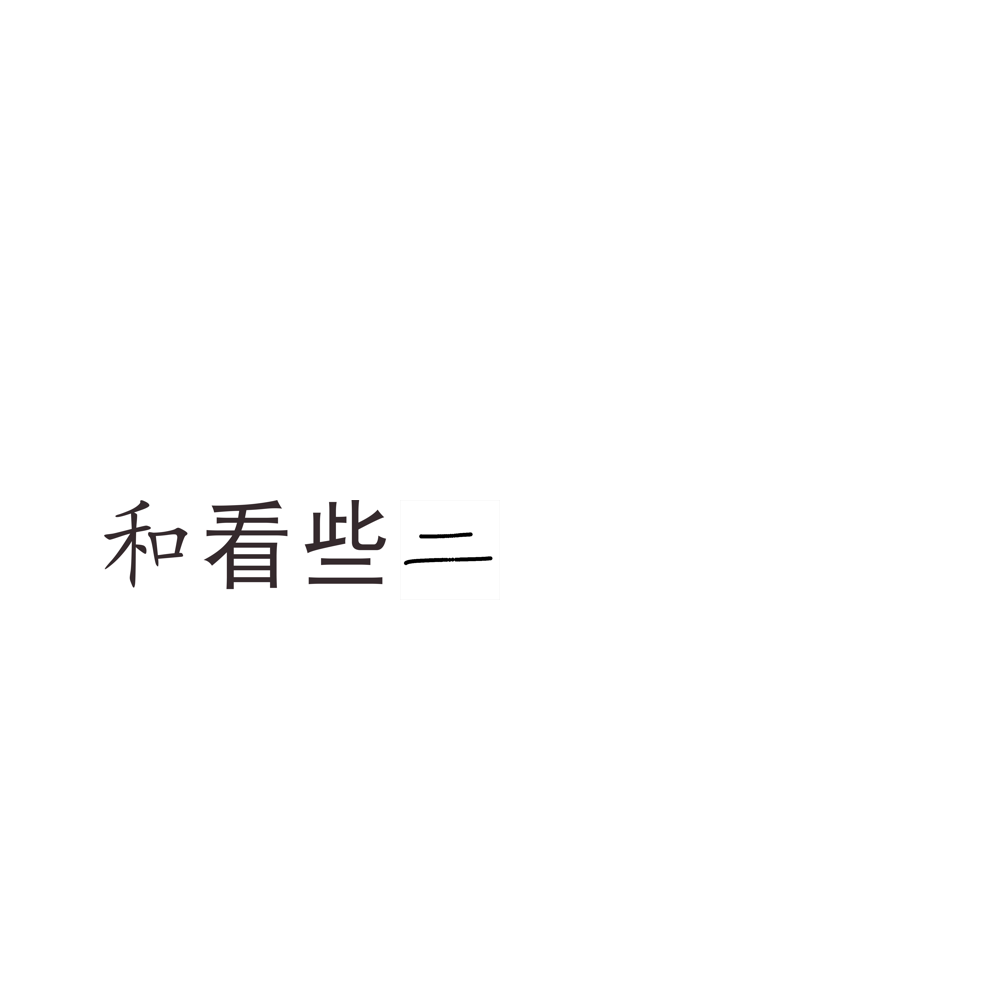
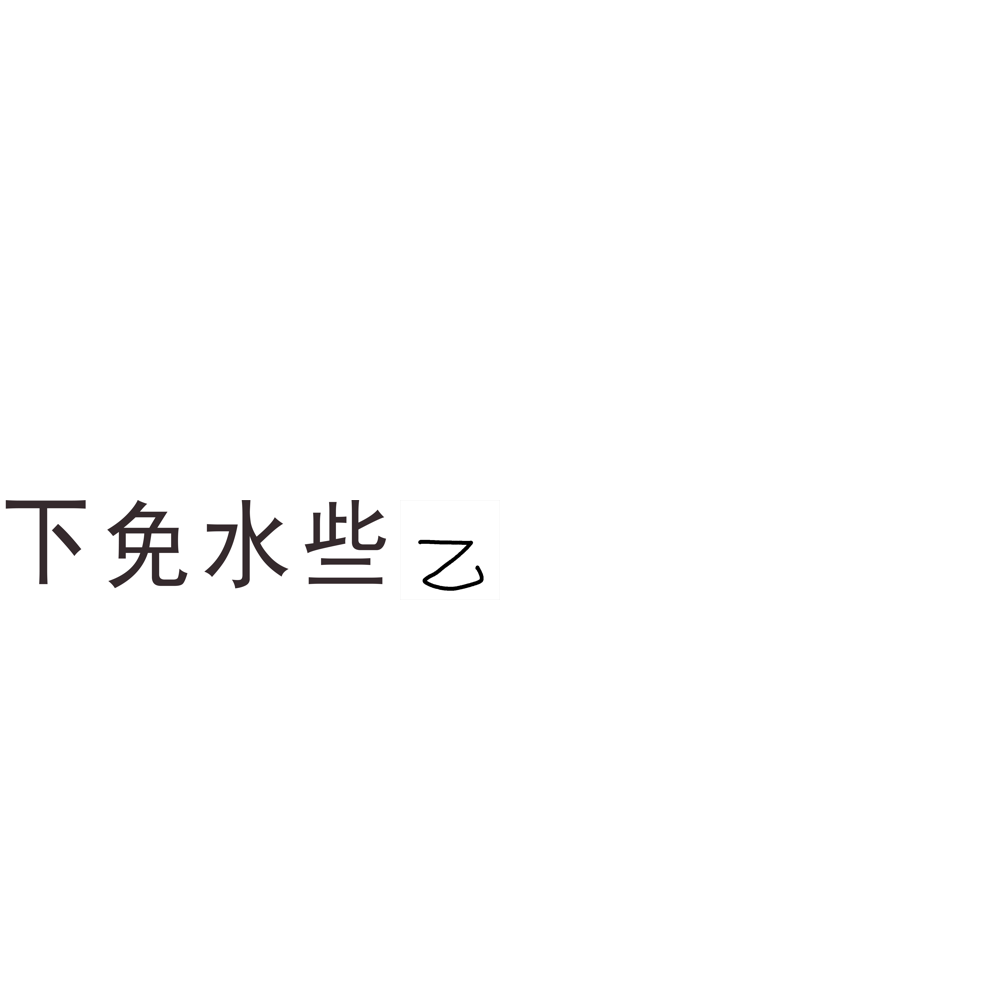
Fixed ImageRecognition.py

Changed region(s): [[0.0, 0.496, 0.279, 0.589], [0.403, 0.527, 0.496, 0.589]]

diff --git a/model/imagerecognition.py b/model/imagerecognition.py
@@ -1,45 +1,54 @@
 import pytesseract
 from PIL import Image
-from PIL import ImageGrab
 import os
+
+
 class ImageRecognition:
     def __init__(self):
         self.path= r"C:\Program Files\Tesseract-OCR\tesseract.exe"
         pytesseract.pytesseract.tesseract_cmd = r"C:\Program Files\Tesseract-OCR\tesseract.exe"
-    @staticmethod
-    def checkIfMatch(label1, label2):
-        if (label1["text"] == label2["text"]):
-            return True
-        return False
+        self.checklist = ["下","免","水","些","的"]
+
+
+
     def checkIfCapturedSignIsCorrect(self,state,sign):
         if (state.listOfTrainingCharacters[state.currentTrainingIndex]== sign):
             return True
         return False
 
-    def paste(self):
+    def paste(self,sign):
         d = os.getcwd()
         d = d + '/model/hanzirecognition/'
-        img1 = Image.open(d + 'first.png')
-        img1 = img1.resize((100, 100))
-        img2 = Image.open(d + 'second.png')
-        img2 = img2.resize((100, 100))
-        img3 = Image.open(d + 'third.png')
-        img3 = img3.resize((100, 100))
-        img = Image.open(d + 'image.png', 'r')
-        img = img.resize((100, 100))
         background = Image.new('RGBA', (1000, 1000), (255, 255, 255, 255))
-        background.paste(img1, (100, 500))
-        background.paste(img2, (200, 500))
-        background.paste(img3, (300, 500))
-        background.paste(img, (400, 500))
+        if sign in self.checklist:
+            index = self.checklist.index(sign)
+            for i in range(5):
+                if i == index:
+                    img = Image.open(d + 'image.png', 'r')
+                else :
+                    img = Image.open(d + str(i) + ".png")
+                img = img.resize((100, 100))
+                background.paste(img, (i * 100, 500))
+        else :
+            for i in range(5):
+                img = Image.open(d + str(i) + ".png")
+                img = img.resize((100, 100))
+                background.paste(img, (i*100, 500))
+            img = Image.open(d + 'image.png', 'r')
+            img = img.resize((100, 100))
+            background.paste(img, (i * 100, 500))
         background.save(d + 'out.png')
-    def calculate(self):
+    def calculate(self,sign):
         d = os.getcwd()
         d = d + '/model/hanzirecognition/'
         img = Image.open(d + 'out.png')
         text = pytesseract.image_to_string(img, lang='chi_sim')
-        return text[len(text) - 2]
+        for i in self.checklist:
+            if i != sign:
+                text = text.replace(i, "")
+        text=text.strip().replace(" ","")
+        return text
 
-    def recognize(self):
-        self.paste()
-        return self.calculate()
+    def recognize(self,sign):
+        self.paste(sign)
+        return self.calculate(sign)

diff --git a/model/hanzicharacter.py b/model/hanzicharacter.py
@@ -1,5 +1,7 @@
 from bs4 import BeautifulSoup
 import requests
+
+
 class Character:
     def __init__(self, hanzi):
         self.hanzi=hanzi
@@ -26,7 +28,8 @@ class Character:
         print("Number of strokes "+str(self.strokesNumber))
         print("Index number " +  str(self.indexNumber))
 
-class WebScrapper():
+
+class WebScrapper:
     def __init__(self,hanzi):
         self.hanzi=hanzi
         self.url = "http://hanzidb.org/character/" + requests.utils.quote(hanzi)
@@ -43,6 +46,7 @@ class WebScrapper():
             values.append(lines)
         myDict = dict(zip(keys,values))
         return myDict
+
     def getHanziData(self):
         abo = self.soup.find_all("div", class_="abo")
         pageText = ""
@@ -57,11 +61,13 @@ class WebScrapper():
         myDict = dict(zip(keys,values))
         return myDict
 
-class PageScrapper():
+
+class PageScrapper:
     def __init__(self,hsk):
         self.url = "http://hanzidb.org/character-list/hsk/level-" + str(hsk)
         self.page = requests.get(self.url)
         self.soup = BeautifulSoup(self.page.content, "html.parser")
+
     def getHanziList(self):
         href = self.soup.find_all("a",href=True)
         pagesList = []

diff --git a/model/learnmodeutil.py b/model/learnmodeutil.py
@@ -63,10 +63,10 @@ class LearnModeUtil:
     def generateLearningPageDataAfterCheck(self):
         if self.state.listOfLearningCharacters:
             self.learningPageDataFor(self.state.listOfLearningCharacters[self.state.currentLearningIndex])
-            self.pageData["capturedSign"]=self.recognition.recognize()
+            self.pageData["capturedSign"]=self.recognition.recognize(self.state.listOfLearningCharacters[self.state.currentLearningIndex])
             return self.pageData
         self.pageData = dict.fromkeys(self.pageData, "")
-        self.pageData["capturedSign"] = self.recognition.recognize()
+        self.pageData["capturedSign"] = self.recognition.recognize(" ")
         return self.pageData
 
     def learningPageDataFor(self,sign):
@@ -84,3 +84,5 @@ class LearnModeUtil:
             text = text + "\n"
         self.pageData["translation"]=text
         self.pageData["announcement"]=""
+
+

diff --git a/model/testmodeutil.py b/model/testmodeutil.py
@@ -40,9 +40,9 @@ class TestModeUtil:
         return self.pageData
 
     def generateTestingPageDataAfterCheck(self):
-        sign = self.recognition.recognize()
+        sign = self.recognition.recognize(" ")
         if self.state.listOfTestingCharacters:
-
+            sign = self.recognition.recognize(self.state.listOfTestingCharacters[self.state.currentTestingIndex])
             self.pageData["capturedSign"] = sign
             if sign == self.state.listOfTestingCharacters[self.state.currentTestingIndex]:
                 addToLearnedCharacters = self.state.addToList(self.state.listOfLearnedCharacters)
